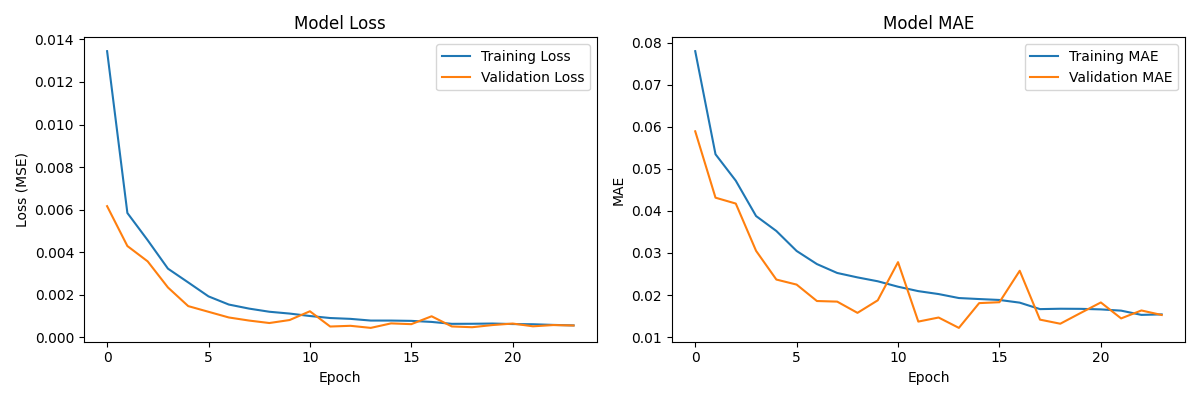
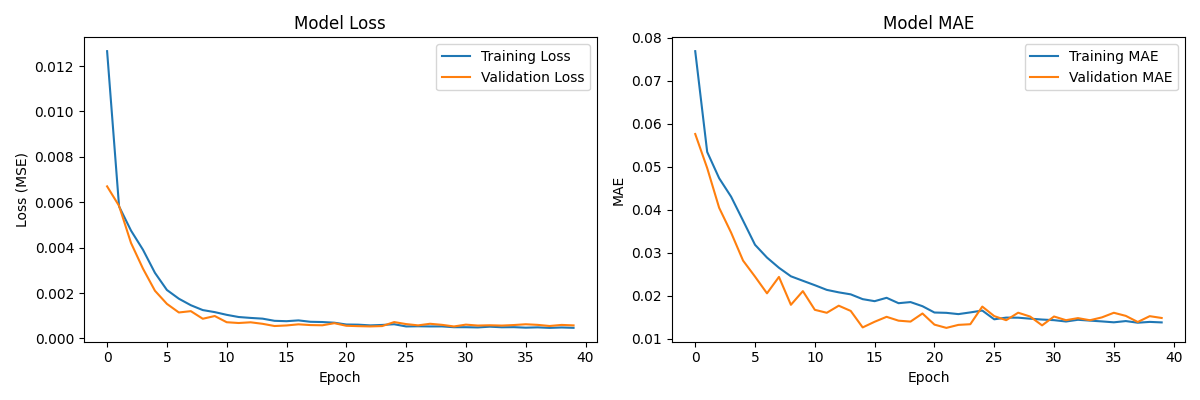
Added Feature View Section

diff --git a/Src/train_model.py b/Src/train_model.py
@@ -59,28 +59,53 @@ except Exception as e:
     sys.exit(1)
 
 # ============================================
-# STEP 2: Load Engineered Features
+# STEP 2: Get or Create Feature View
 # ============================================
-print("\n📂 2. Loading engineered features...")
+print("\n🔍 2. Getting Feature View...")
 
 try:
-    # First try to get engineered features
-    fg = fs.get_feature_group("karachi_aqi_engineered_features", version=1)
-    df = fg.read()
-    print(f"   ✅ Loaded {len(df)} rows from engineered features")
-    print(f"   📅 Date range: {df['timestamp'].min()} to {df['timestamp'].max()}")
-except Exception as e:
-    print(f"   ⚠️ Engineered features not found: {e}")
-    print("   Trying raw features instead...")
+    # Try to get existing Feature View
+    feature_view = fs.get_feature_view("karachi_aqi_final_view", version=1)
+    print(f"   ✅ Found existing Feature View: {feature_view.name}")
+    
+    # OPTIONAL: Create a versioned Training Dataset for this model
+    print("\n📊 2b. Creating Training Dataset for Random Forest...")
     try:
-        fg = fs.get_feature_group("karachi_aqi_features", version=1)
+        training_dataset = feature_view.create_training_dataset(
+            description="Training data for Random Forest model",
+            data_format="csv",
+            write_options={"wait_for_job": True}
+        )
+        print(f"   ✅ Training Dataset created: version {training_dataset.version}")
+        
+        # Load data from Training Dataset
+        df = training_dataset.read()
+        print(f"   ✅ Loaded {len(df)} rows from Training Dataset")
+        
+    except Exception as e:
+        print(f"   ⚠️ Could not create Training Dataset, falling back to Feature View: {e}")
+        df = feature_view.get_batch_data()
+        print(f"   ✅ Loaded {len(df)} rows from Feature View")
+        
+except Exception as e:
+    print(f"   ⚠️ Feature View not found, loading from Feature Group directly: {e}")
+    print("\n📂 2b. Loading engineered features from Feature Group...")
+    try:
+        fg = fs.get_feature_group("karachi_aqi_engineered_features", version=1)
         df = fg.read()
-        print(f"   ✅ Loaded {len(df)} rows from raw features")
+        print(f"   ✅ Loaded {len(df)} rows from engineered features")
     except Exception as e2:
-        print(f"   ❌ Failed to load data: {e2}")
-        sys.exit(1)
+        print(f"   ⚠️ Engineered features not found: {e2}")
+        try:
+            fg = fs.get_feature_group("karachi_aqi_features", version=1)
+            df = fg.read()
+            print(f"   ✅ Loaded {len(df)} rows from raw features")
+        except Exception as e3:
+            print(f"   ❌ Failed to load data: {e3}")
+            sys.exit(1)
 
 df['timestamp'] = pd.to_datetime(df['timestamp'])
+print(f"   📅 Date range: {df['timestamp'].min()} to {df['timestamp'].max()}")
 
 # ============================================
 # STEP 3: Prepare Features (X) and Target (y)
@@ -210,7 +235,14 @@ try:
     mr = project.get_model_registry()
     
     version = int(datetime.now().strftime("%Y%m%d"))
-    print(f"   Debug: ModelRegistry has sklearn={hasattr(mr, 'sklearn')} python={hasattr(mr, 'python')} tensorflow={hasattr(mr, 'tensorflow')}")
+    
+    # Try to associate with Training Dataset if it was created
+    try:
+        training_dataset_version = training_dataset.version if 'training_dataset' in locals() else None
+        print(f"   📊 Associated with Training Dataset v{training_dataset_version}")
+    except:
+        training_dataset_version = None
+    
     model_registry_obj = mr.python.create_model(
         name="aqi_predictor_random_forest",
         version=version,
@@ -223,9 +255,9 @@ try:
             "test_mae": float(test_mae),
             "test_r2": float(test_r2)
         },
-        input_example=X_test[:1]
+        input_example=X_test[:1],
+        training_dataset_version=training_dataset_version
     )
-    print(f"   Debug: model_registry_obj type = {type(model_registry_obj)} has save={hasattr(model_registry_obj, 'save')}")
     model_registry_obj.save(str(model_path))
     print(f"   ✅ Model saved to Hopsworks Model Registry v{version}!")
 except Exception as e:
@@ -245,3 +277,9 @@ print(f"   Test MAE:  {test_mae:.2f} AQI points")
 print(f"   Test R²:   {test_r2:.3f}")
 print(f"\n📁 Files created:")
 print(f"   👉 Model: models/random_forest_aqi_model.pkl")
+if 'feature_view' in locals():
+    print(f"\n📁 Hopsworks components:")
+    print(f"   👉 Feature View: karachi_aqi_final_view v1")
+if 'training_dataset' in locals():
+    print(f"   👉 Training Dataset: v{training_dataset.version}")
+print("=" * 70)

diff --git a/Src/train_lstm.py b/Src/train_lstm.py
@@ -20,7 +20,7 @@ from dotenv import load_dotenv
 from datetime import datetime
 
 
-def save_model_registry(project, model_name, model_path, metrics, input_example=None, framework="tensorflow"):
+def save_model_registry(project, model_name, model_path, metrics, input_example=None, framework="tensorflow", training_dataset_version=None):
     try:
         mr = project.get_model_registry()
         version = int(datetime.now().strftime("%Y%m%d"))
@@ -32,6 +32,7 @@ def save_model_registry(project, model_name, model_path, metrics, input_example=
                 description=f"LSTM model for AQI prediction trained on updated Karachi data.",
                 metrics=metrics,
                 input_example=input_example,
+                training_dataset_version=training_dataset_version
             )
         else:
             model_registry_obj = mr.python.create_model(
@@ -40,6 +41,7 @@ def save_model_registry(project, model_name, model_path, metrics, input_example=
                 description=f"LSTM model for AQI prediction trained on updated Karachi data.",
                 metrics=metrics,
                 input_example=input_example,
+                training_dataset_version=training_dataset_version
             )
         print(f"   Debug: model_registry_obj type = {type(model_registry_obj)} has save={hasattr(model_registry_obj, 'save')}")
         model_registry_obj.save(str(model_path))
@@ -89,19 +91,53 @@ except Exception as e:
     sys.exit(1)
 
 # ============================================
-# STEP 2: Load Engineered Features
+# STEP 2: Get or Create Feature View
 # ============================================
-print("\n📂 2. Loading engineered features...")
+print("\n🔍 2. Getting Feature View...")
+
+training_dataset_version = None
 
 try:
-    fg = fs.get_feature_group("karachi_aqi_engineered_features", version=1)
-    df = fg.read()
-    print(f"   ✅ Loaded {len(df)} rows from engineered features")
+    # Try to get existing Feature View
+    feature_view = fs.get_feature_view("karachi_aqi_final_view", version=1)
+    print(f"   ✅ Found existing Feature View: {feature_view.name}")
+    
+    # Create a versioned Training Dataset for LSTM
+    print("\n📊 2b. Creating Training Dataset for LSTM...")
+    try:
+        training_dataset = feature_view.create_training_dataset(
+            description="Training data for LSTM model",
+            data_format="csv",
+            write_options={"wait_for_job": True}
+        )
+        print(f"   ✅ Training Dataset created: version {training_dataset.version}")
+        training_dataset_version = training_dataset.version
+        
+        # Load data from Training Dataset
+        df = training_dataset.read()
+        print(f"   ✅ Loaded {len(df)} rows from Training Dataset")
+        
+    except Exception as e:
+        print(f"   ⚠️ Could not create Training Dataset, falling back to Feature View: {e}")
+        df = feature_view.get_batch_data()
+        print(f"   ✅ Loaded {len(df)} rows from Feature View")
+        
 except Exception as e:
-    print(f"   ⚠️ Engineered features not found, loading raw features...")
-    fg = fs.get_feature_group("karachi_aqi_features", version=1)
-    df = fg.read()
-    print(f"   ✅ Loaded {len(df)} rows from raw features")
+    print(f"   ⚠️ Feature View not found, loading from Feature Group directly: {e}")
+    print("\n📂 2b. Loading engineered features from Feature Group...")
+    try:
+        fg = fs.get_feature_group("karachi_aqi_engineered_features", version=1)
+        df = fg.read()
+        print(f"   ✅ Loaded {len(df)} rows from engineered features")
+    except Exception as e2:
+        print(f"   ⚠️ Engineered features not found, loading raw features...")
+        try:
+            fg = fs.get_feature_group("karachi_aqi_features", version=1)
+            df = fg.read()
+            print(f"   ✅ Loaded {len(df)} rows from raw features")
+        except Exception as e3:
+            print(f"   ❌ Failed to load data: {e3}")
+            sys.exit(1)
 
 df['timestamp'] = pd.to_datetime(df['timestamp'])
 print(f"   📅 Date range: {df['timestamp'].min()} to {df['timestamp'].max()}")
@@ -390,7 +426,8 @@ save_model_registry(
     model_path=model_path,
     metrics=metrics,
     input_example=np.zeros((1, len(available_cols))),
-    framework="tensorflow"
+    framework="tensorflow",
+    training_dataset_version=training_dataset_version
 )
 
 # ============================================
@@ -409,3 +446,8 @@ print(f"   👉 lstm_aqi_model.keras (LSTM model)")
 print(f"   👉 scaler_X.pkl (feature scaler)")
 print(f"   👉 scaler_y.pkl (target scaler)")
 print(f"   👉 lstm_model_info.pkl (model metadata)")
+if 'feature_view' in locals():
+    print(f"\n📁 Hopsworks components:")
+    print(f"   👉 Feature View: karachi_aqi_final_view v1")
+if training_dataset_version:
+    print(f"   👉 Training Dataset: v{training_dataset_version}")

diff --git a/Src/train_xgboost.py b/Src/train_xgboost.py
@@ -16,7 +16,7 @@ from pathlib import Path
 from dotenv import load_dotenv
 
 
-def save_model_registry(project, model_name, model_path, metrics, input_example=None, framework="sklearn"):
+def save_model_registry(project, model_name, model_path, metrics, input_example=None, framework="sklearn", training_dataset_version=None):
     try:
         mr = project.get_model_registry()
         version = int(datetime.now().strftime("%Y%m%d"))
@@ -27,6 +27,7 @@ def save_model_registry(project, model_name, model_path, metrics, input_example=
             description=f"XGBoost model for AQI prediction trained on updated Karachi data.",
             metrics=metrics,
             input_example=input_example,
+            training_dataset_version=training_dataset_version
         )
         print(f"   Debug: model_registry_obj type = {type(model_registry_obj)} has save={hasattr(model_registry_obj, 'save')}")
         model_registry_obj.save(str(model_path))
@@ -76,19 +77,53 @@ except Exception as e:
     sys.exit(1)
 
 # ============================================
-# STEP 2: Load Engineered Features
+# STEP 2: Get or Create Feature View
 # ============================================
-print("\n📂 2. Loading engineered features...")
+print("\n🔍 2. Getting Feature View...")
+
+training_dataset_version = None
 
 try:
-    fg = fs.get_feature_group("karachi_aqi_engineered_features", version=1)
-    df = fg.read()
-    print(f"   ✅ Loaded {len(df)} rows from engineered features")
+    # Try to get existing Feature View
+    feature_view = fs.get_feature_view("karachi_aqi_final_view", version=1)
+    print(f"   ✅ Found existing Feature View: {feature_view.name}")
+    
+    # Create a versioned Training Dataset for XGBoost
+    print("\n📊 2b. Creating Training Dataset for XGBoost...")
+    try:
+        training_dataset = feature_view.create_training_dataset(
+            description="Training data for XGBoost model",
+            data_format="csv",
+            write_options={"wait_for_job": True}
+        )
+        print(f"   ✅ Training Dataset created: version {training_dataset.version}")
+        training_dataset_version = training_dataset.version
+        
+        # Load data from Training Dataset
+        df = training_dataset.read()
+        print(f"   ✅ Loaded {len(df)} rows from Training Dataset")
+        
+    except Exception as e:
+        print(f"   ⚠️ Could not create Training Dataset, falling back to Feature View: {e}")
+        df = feature_view.get_batch_data()
+        print(f"   ✅ Loaded {len(df)} rows from Feature View")
+        
 except Exception as e:
-    print(f"   ⚠️ Engineered features not found, trying raw features...")
-    fg = fs.get_feature_group("karachi_aqi_features", version=1)
-    df = fg.read()
-    print(f"   ✅ Loaded {len(df)} rows from raw features")
+    print(f"   ⚠️ Feature View not found, loading from Feature Group directly: {e}")
+    print("\n📂 2b. Loading engineered features from Feature Group...")
+    try:
+        fg = fs.get_feature_group("karachi_aqi_engineered_features", version=1)
+        df = fg.read()
+        print(f"   ✅ Loaded {len(df)} rows from engineered features")
+    except Exception as e2:
+        print(f"   ⚠️ Engineered features not found: {e2}")
+        try:
+            fg = fs.get_feature_group("karachi_aqi_features", version=1)
+            df = fg.read()
+            print(f"   ✅ Loaded {len(df)} rows from raw features")
+        except Exception as e3:
+            print(f"   ❌ Failed to load data: {e3}")
+            sys.exit(1)
 
 df['timestamp'] = pd.to_datetime(df['timestamp'])
 print(f"   📅 Date range: {df['timestamp'].min()} to {df['timestamp'].max()}")
@@ -321,7 +356,13 @@ save_model_registry(
     model_path=final_model_path,
     metrics=final_metrics,
     input_example=X_test[:1],
-    framework="sklearn"
+    framework="sklearn",
+    training_dataset_version=training_dataset_version
 )
 
 print(f"\n📁 Model saved at: {final_model_path}")
+if 'feature_view' in locals():
+    print(f"\n📁 Hopsworks components:")
+    print(f"   👉 Feature View: karachi_aqi_final_view v1")
+if training_dataset_version:
+    print(f"   👉 Training Dataset: v{training_dataset_version}")

diff --git a/Src/feature_engineering.py b/Src/feature_engineering.py
@@ -266,6 +266,41 @@ except Exception as e:
     print(f"   ⚠️ Could not verify: {e}")
 
 # ============================================
+# STEP 13: CREATE FEATURE VIEW (NEW!)
+# ============================================
+print("\n🔍 12. Creating Feature View...")
+
+try:
+    # Get the engineered feature group again (or use existing reference)
+    engineered_fg = fs.get_feature_group("karachi_aqi_engineered_features", version=1)
+    
+    # Create Feature View (like a saved query)
+    feature_view = fs.create_feature_view(
+        name="karachi_aqi_final_view",
+        version=1,
+        description="Complete engineered features for AQI prediction - 43 features including time, lags, rolling stats, and weather interactions",
+        query=engineered_fg.select_all()
+    )
+    
+    print(f"   ✅ Feature View created: {feature_view.name}")
+    print(f"   🔗 Link: Feature View v{feature_view.version}")
+    
+    # Optional: Create Training Dataset (versioned snapshot)
+    print("\n📊 13. Creating Training Dataset...")
+    
+    training_dataset = feature_view.create_training_dataset(
+        description="Training dataset for XGBoost model - includes all 43 engineered features",
+        data_format="csv",
+        write_options={"wait_for_job": True}
+    )
+    
+    print(f"   ✅ Training Dataset created: version {training_dataset.version}")
+    
+except Exception as e:
+    print(f"   ⚠️ Could not create Feature View/Training Dataset: {e}")
+    print("   (This is optional - your feature group is still saved)")
+
+# ============================================
 # SUMMARY
 # ============================================
 print("\n" + "=" * 70)
@@ -277,9 +312,11 @@ print(f"   📊 Original rows: {before}")
 print(f"   📊 Final rows: {after}")
 print(f"   📋 Original columns: 15")
 print(f"   📋 Final columns: {len(df.columns)}")
-print(f"\n📁 New feature group:")
+print(f"\n📁 Feature Group:")
 print(f"   📛 Name: karachi_aqi_engineered_features")
+print(f"   🔢 Version: 1")
+print(f"\n📁 Feature View (NEW!):")
+print(f"   📛 Name: karachi_aqi_final_view")
 print(f"   🔢 Version: 1")
 print("\n🎯 Next step: Train ML model using these features!")
 print("   👉 Run: python Src/train_model.py")
-print("=" * 70)